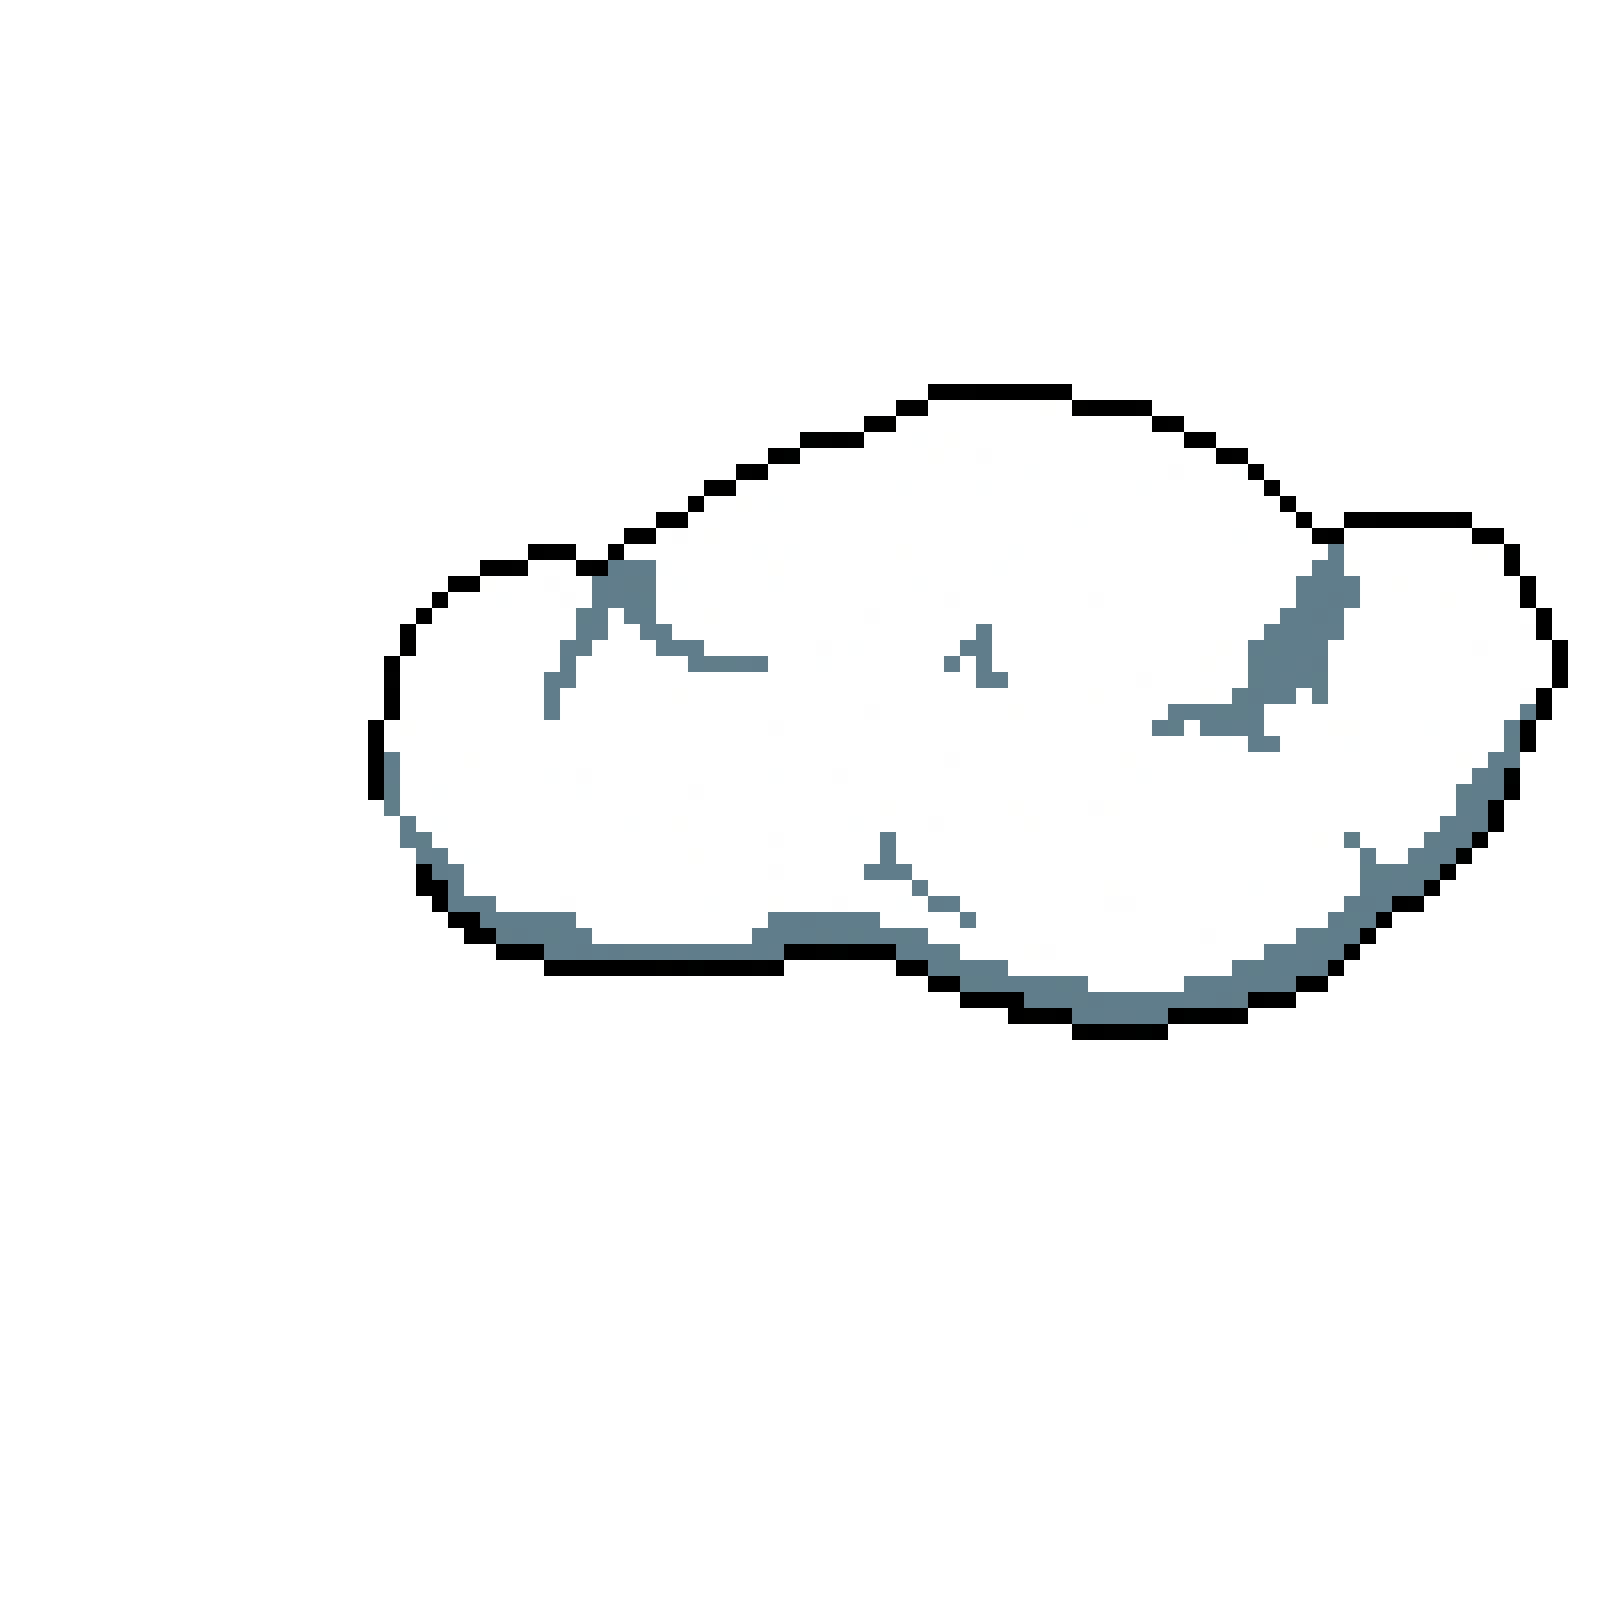
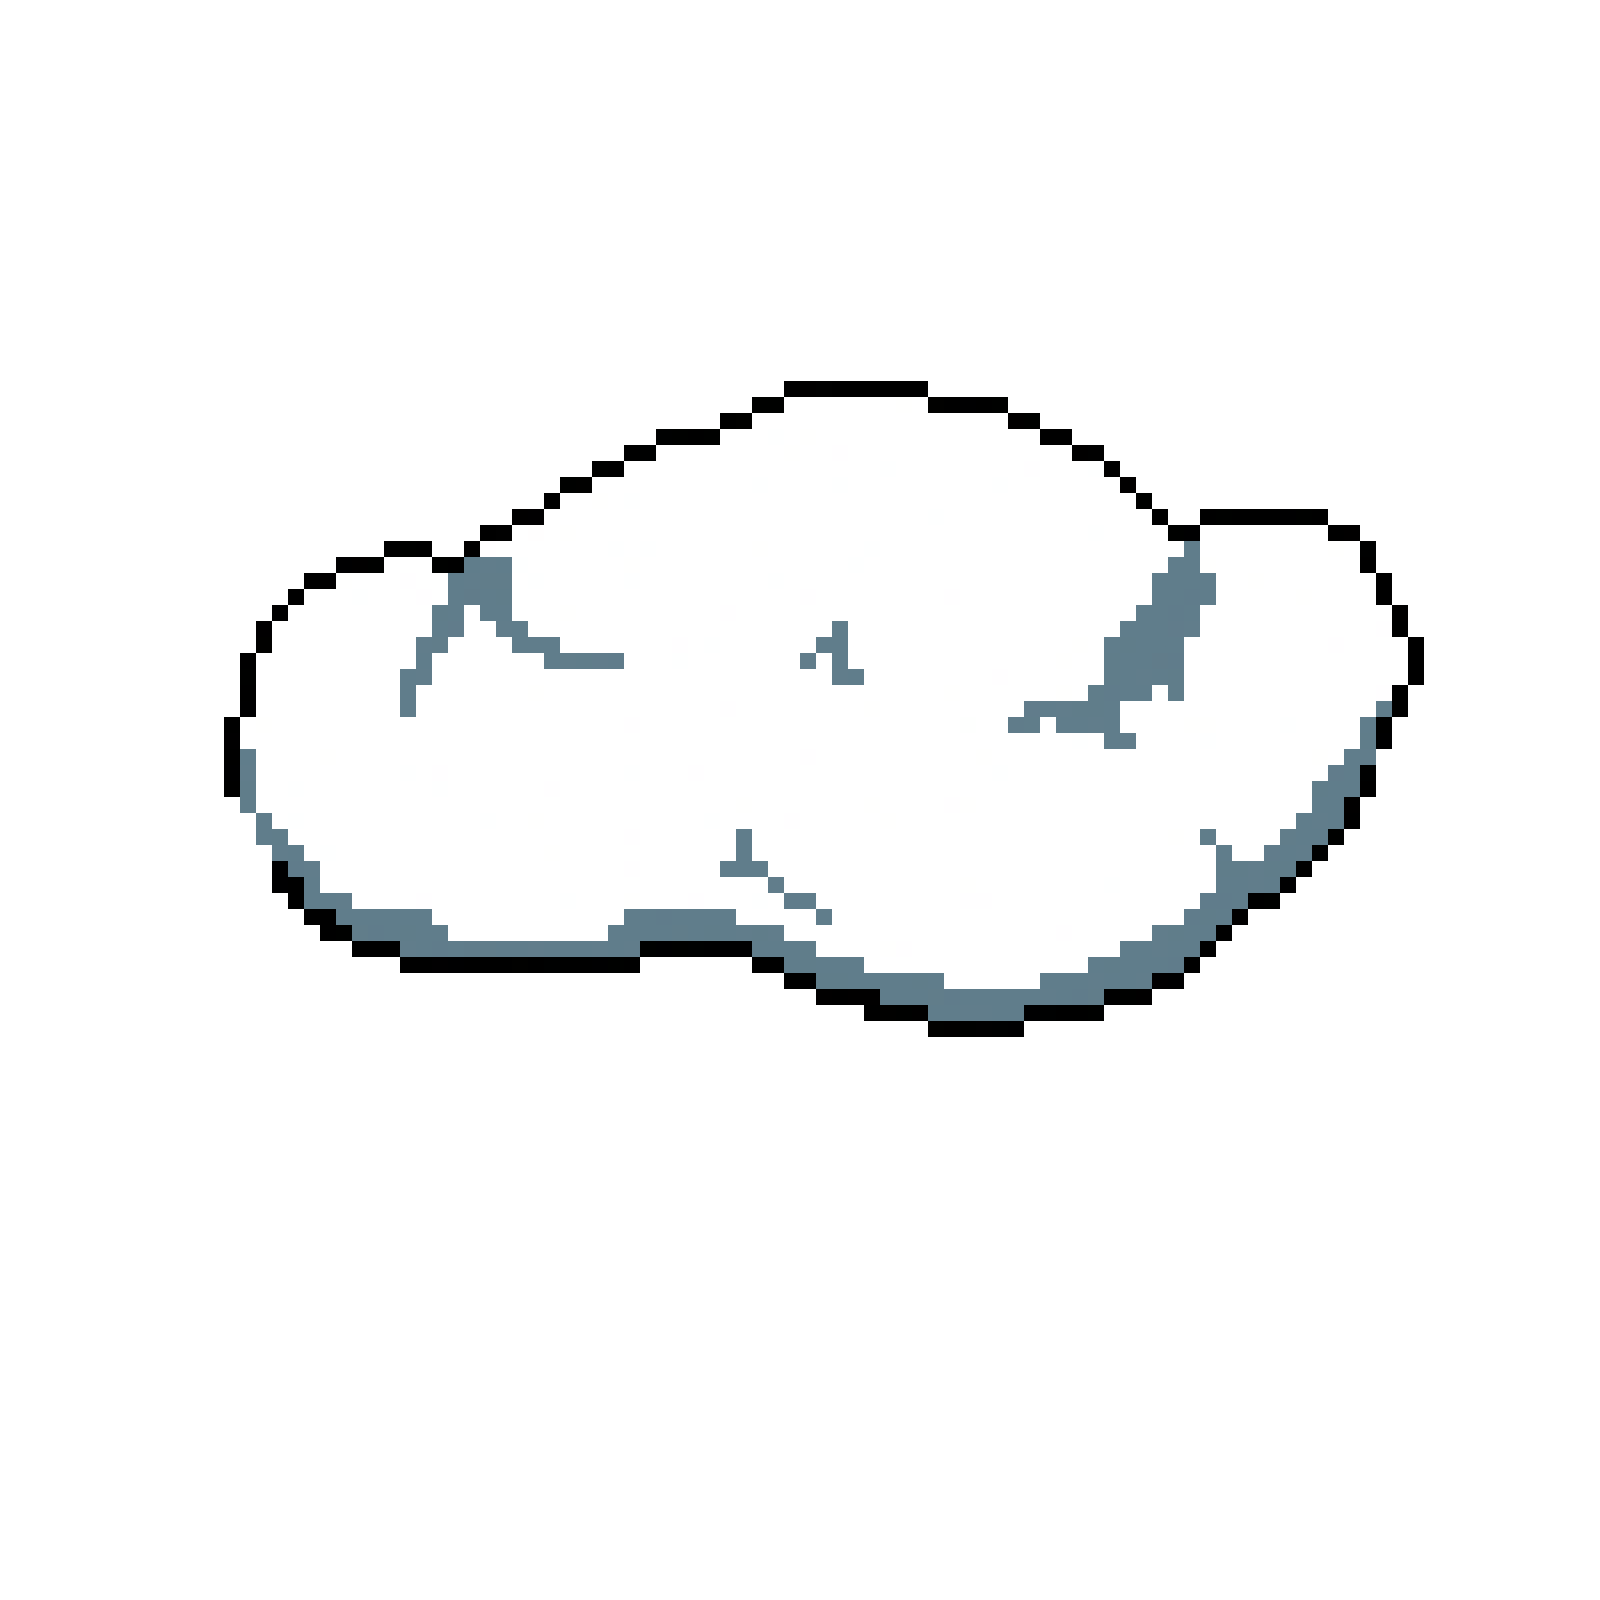
testing pout cloud src err

diff --git a/mywebpage/src/App.css b/mywebpage/src/App.css
@@ -1,3 +1,5 @@
+
+
 body{
   margin: 0% !important;
 }
@@ -230,6 +232,9 @@ body{
     flex-direction: row;
     justify-content:flex-start;
     align-items: center;
+    /* font-family: 'Monster Friend Back', sans-serif;
+    font-family: 'Monster Friend Fore', sans-serif;
+    font-size: 10px; */
     /* background-color: #4ab0d4; */
     
     
@@ -342,11 +347,12 @@ body{
   align-items: center;
 }
 .backgroundImage{
-  background-image: url('https://th.bing.com/th/id/OIG2.Ep7CUPmWQdIXuIkVYquP?w=1024&h=1024&rs=1&pid=ImgDetMain');
+  background-image: url('https://art.pixilart.com/sr2cb0a10a662aws3.png');
   width: 100%;
   position: absolute;
   height:110rem;
   z-index: -3;
+  background-size: 20%;
 }
 
 .projectContainer{
@@ -428,9 +434,9 @@ body{
 .blur{
   width: 90%;
     height: 107rem;
-    background-color: aqua;
+    background-color: rgb(0, 64, 83);
     position: absolute;
-    opacity: 46%;
+    opacity: 66%;
     left: 5rem;
     z-index: -2;
     top: 1rem;
@@ -456,7 +462,7 @@ body{
   background-image: url('https://cdn.pixilart.com/photos/large/06bbcabfc27b68d.jpg');
   position: absolute;
     background-size: cover;
-    height: 127%;
+    height: 100%;
     width: 100%;
     background-position: center;
     z-index: -2;
@@ -477,32 +483,68 @@ body{
 
 /*  clouds on home page */
 .backCloud{
-  scale: 30%;
+  display: flex;
+  flex-direction: column;
+  align-items: center;
   position: absolute;
-  top: -30rem;
-  left: 18%;
+  top: 25%;
+  left: 70%;
+  /* opacity: 60%; */
   transition: 300ms;
+  width: 10rem;
+  height: 10rem;
+  background-image: url('/src/assets/cloudTwo.png');
+  background-size: cover;
+  scale: 110%;
 
 }
 .backCloud:hover{
-  scale:32%;
-  transition:300ms;
+  scale:120%;
+  .cloudIcon{
+    transform: translateY(-4.2rem);
+  }
 }
 .cloud{
-  scale: 6%;
+  /* scale: 6%; */
+  display: flex;
+  flex-direction: column;
+  align-items: center;
   position: absolute;
-  top: -38rem;
-  left: 60rem;
-  opacity: 60%;
+  top: 10%;
+  left: 30%;
+  /* opacity: 60%; */
   transition: 300ms;
+  width: 10rem;
+  height: 10rem;
+  background-image: url('/src/assets/Cloud.png');
+  background-size: cover;
+}
+.cloud:hover{
+  scale:110%;
+  .cloudIcon{
+    transform: translateY(-4.2rem);
+  }
 }
 .cloudTwo{
-  scale: 10%;
+  /* scale: 6%; */
+  display: flex;
+  flex-direction: column;
+  align-items: center;
   position: absolute;
-  top: -25rem;
-  left:-10rem;
-  opacity: 60%;
+  top: 20%;
+  left: 10%;
+  /* opacity: 60%; */
   transition: 300ms;
+  width: 10rem;
+  height: 10rem;
+  background-image: url('/src/assets/cloudThree.png');
+  background-size: cover;
+}
+.cloudTwo:hover{
+  scale:110%;
+  .cloudIcon{
+    transform: translateY(-4.2rem);
+  }
 }
 .cloudThree{
   scale: 8%;
@@ -520,10 +562,32 @@ body{
 
 .slideContainer{
   position: relative;
+  overflow: hidden;
+  min-width: 6rem;
+  /* border: solid; */
+  display: flex;
+  flex-direction: column;
+  align-items: center;
 }
-.test{
-  scale:50%;
+.cloudIcon{
+  position: relative;
+  top: 5rem;
+  transition: 300ms;
+  /* background-image: url(src/assets/Home.png); */
+  min-block-size: 5rem;
+  /* border: solid; */
+  /* background-size: cover; */
+  max-width: 5rem;
 }
+
+.Title{
+  font-family: 'Monster Friend Back', sans-serif;
+  font-family: 'Monster Friend Fore', sans-serif;
+  color: #ffffff;
+  text-align: center;
+
+}
+
 
  
 

diff --git a/mywebpage/src/routes/Home.jsx b/mywebpage/src/routes/Home.jsx
@@ -12,17 +12,16 @@ const Home = () =>{
   }
     return(
       <>
-      <div className="topbar">Header Bar</div>
+      <div className="topbar">
+        <h1 className="Title">MatthewSandor</h1>
+      </div>
+
       <div className="homeBanner"></div>
         
-        <Cloud className={"backCloud"} src={"src/assets/titleCloud.png"}>
-        <h1 className="homeTitle">Matthew Sandor</h1>
-        </Cloud>
-        <Cloud className={"cloud"} src={"src/assets/Cloud.png"}/>
-        <Cloud className={"cloudTwo"} src={"src/assets/cloudTwo.png"}/>
-        <Cloud className={"cloudThree"} src={"src/assets/cloudThree.png"}/>
-        
-        
+        <Cloud name={"backCloud"} src={"/src/assets/Home.png"}></Cloud>
+        <Cloud name={"cloud"} src={"/src/assets/Websites.png"}/>
+        <Cloud name={"cloudTwo"} src={"/src/assets/Resume.png"}/>
+        {/* <Cloud name={"cloudThree"} src={"src/assets/cloudThree.png"}/> */}
 
       </>
     )

diff --git a/mywebpage/src/components/clouds.jsx b/mywebpage/src/components/clouds.jsx
@@ -1,13 +1,13 @@
 
-const Cloud = ({src,className}) =>{
+const Cloud = ({src,name}) =>{
  
     return(
       <>
-      <div >
+      <div className={name} >
         <div className="slideContainer">
-          {/* <h1>hello</h1> */}
+          <img  src={src} className="cloudIcon"></img>
         </div>
-        <img className={className} src={src}></img>
+        {/* <img className={className} src={src}></img> */}
       </div>
       </>
     )

diff --git a/mywebpage/index.html b/mywebpage/index.html
@@ -1,6 +1,7 @@
 <!doctype html>
 <html lang="en">
   <head>
+    <link href="https://fonts.cdnfonts.com/css/monster-friend-back" rel="stylesheet">
     <meta charset="UTF-8" />
     <link rel="icon" type="image/png" href="src/assets/apple-2.0-pixilart.png" />
     <meta name="viewport" content="width=device-width, initial-scale=1.0" />

diff --git a/mywebpage/src/routes/contact.jsx b/mywebpage/src/routes/contact.jsx
@@ -3,7 +3,7 @@ const Contact = () =>{
  
     return(
       <>
-        <h1>this is Contact page</h1>
+        <h1 className="fontTest">this is Contact page</h1>
         
       </>
     )
